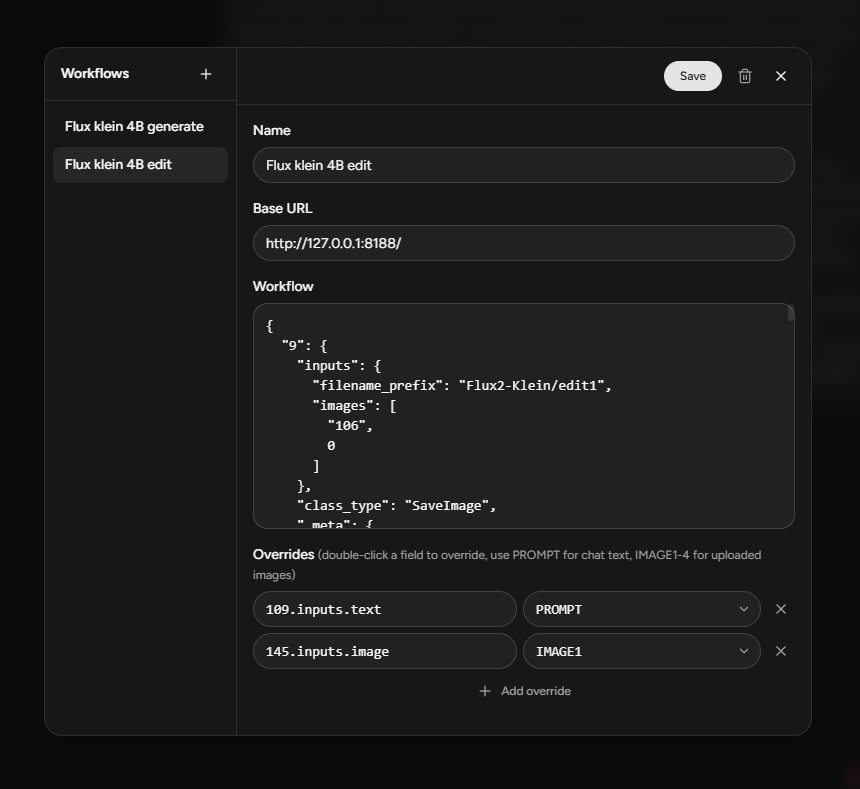
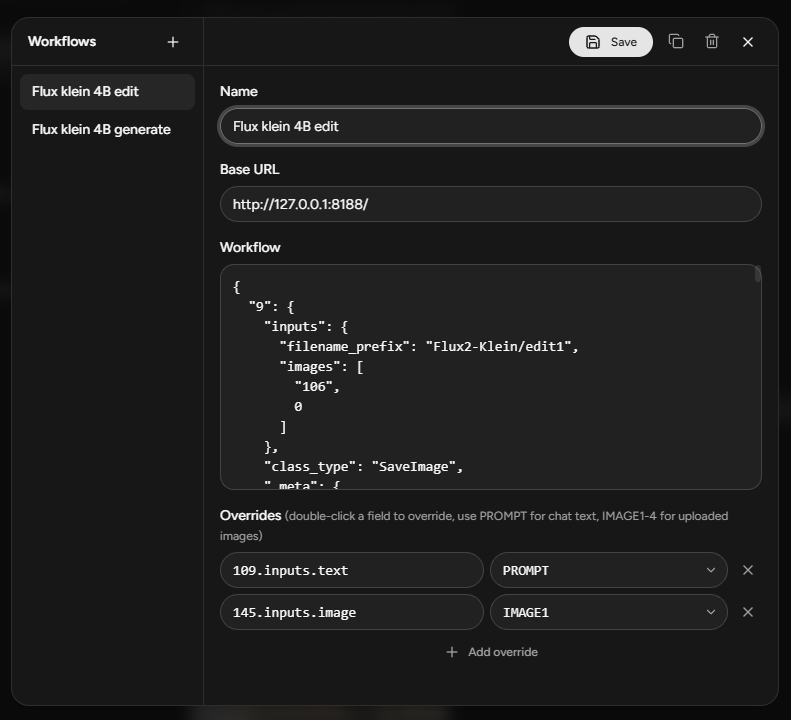
fix workflow settings modal

diff --git a/src/lib/components/Settings.svelte b/src/lib/components/Settings.svelte
@@ -4,11 +4,12 @@
 	import { Textarea } from '$lib/components/ui/textarea';
 	import { ScrollArea } from '$lib/components/ui/scroll-area';
 	import { workflowStore } from '$lib/stores/workflow.store.svelte';
-	import { X, Plus, Trash2 } from 'lucide-svelte';
+	import { X, Plus, Trash2, Copy, Save } from 'lucide-svelte';
 	import type { WorkflowOverride } from '$lib/services/workflow.service';
 	import ConfirmDialog from '$lib/components/ConfirmDialog.svelte';
 	import DynamicWorkflowBuilder from '$lib/components/DynamicWorkflowBuilder.svelte';
 	import { toast } from 'svelte-sonner';
+	import { Tooltip, TooltipContent, TooltipTrigger } from '$lib/components/ui/tooltip';
 
 	let { open = $bindable(false) }: { open: boolean } = $props();
 
@@ -103,6 +104,22 @@
 		}
 	}
 
+	async function handleClone() {
+		const wf = workflowStore.activeWorkflow;
+		if (!wf) return;
+
+		const baseName = wf.name.replace(/\s+\(Clone \d+\)$/i, '') || 'Workflow';
+		const clonePattern = new RegExp(`^${baseName.replace(/[.*+?^${}()|[\]\\]/g, '\\$&')} \\(Clone (\\d+)\\)$`, 'i');
+		const nextNumber =
+			workflowStore.workflows.reduce((max, workflow) => {
+				const match = workflow.name.match(clonePattern);
+				return match ? Math.max(max, Number(match[1])) : max;
+			}, 0) + 1;
+
+		await workflowStore.cloneWorkflow(wf, `${baseName} (Clone ${nextNumber})`);
+		toast.success('Workflow cloned');
+	}
+
 	function handleDelete() {
 		showDeleteConfirm = true;
 	}
@@ -186,7 +203,7 @@
 			<!-- Sidebar: Workflow List -->
 			<div class="flex w-48 flex-col border-r border-border md:rounded-l-2xl">
 				<!-- Sidebar Header -->
-				<div class="flex items-center justify-between border-b border-border px-4 py-3">
+				<div class="flex h-12 shrink-0 items-center justify-between border-b border-border px-4 py-0">
 					<h3 class="text-sm font-semibold text-foreground">Workflows</h3>
 					<Button
 						variant="ghost"
@@ -228,7 +245,7 @@
 			<!-- Main Panel -->
 			<div class="flex flex-1 flex-col md:rounded-r-2xl">
 				<!-- Action Bar: always visible -->
-				<div class="flex items-center justify-end gap-2 border-b border-border px-4 py-3">
+				<div class="flex h-12 shrink-0 items-center justify-end gap-2 border-b border-border px-4 py-0">
 					{#if workflowStore.activeWorkflow}
 						<Button
 							variant="default"
@@ -237,20 +254,43 @@
 							onclick={handleSave}
 							tabindex={-1}
 						>
+							<Save class="mr-1.5 h-3.5 w-3.5" />
 							Save
 						</Button>
 					{/if}
+					{#if workflowStore.activeWorkflow}
+						<Tooltip>
+							<TooltipTrigger>
+								<Button
+									variant="ghost"
+									size="icon"
+									class="h-7 w-7 cursor-pointer text-muted-foreground"
+									onclick={handleClone}
+									aria-label="Duplicate workflow"
+									tabindex={-1}
+								>
+									<Copy class="h-4 w-4" />
+								</Button>
+							</TooltipTrigger>
+							<TooltipContent>Duplicate workflow</TooltipContent>
+						</Tooltip>
+					{/if}
 					{#if workflowStore.activeWorkflow && !isNewWorkflow}
-						<Button
-							variant="ghost"
-							size="icon"
-							class="h-7 w-7 cursor-pointer text-muted-foreground hover:text-destructive"
-							onclick={handleDelete}
-							aria-label="Delete workflow"
-							tabindex={-1}
-						>
-							<Trash2 class="h-4 w-4" />
-						</Button>
+						<Tooltip>
+							<TooltipTrigger>
+								<Button
+									variant="ghost"
+									size="icon"
+									class="h-7 w-7 cursor-pointer text-muted-foreground hover:text-destructive"
+									onclick={handleDelete}
+									aria-label="Delete workflow"
+									tabindex={-1}
+								>
+									<Trash2 class="h-4 w-4" />
+								</Button>
+							</TooltipTrigger>
+							<TooltipContent>Delete workflow</TooltipContent>
+						</Tooltip>
 					{/if}
 					<Button
 						variant="ghost"

diff --git a/src/lib/stores/workflow.store.svelte.ts b/src/lib/stores/workflow.store.svelte.ts
@@ -29,6 +29,19 @@ function createWorkflowStore() {
 		workflows = workflows.map((w) => (w.id === updated.id ? updated : w));
 	}
 
+	async function cloneWorkflow(workflow: Workflow, name: string) {
+		const clone = {
+			...workflowService.createWorkflow(),
+			name,
+			base_url: workflow.base_url,
+			workflow: workflow.workflow,
+			overrides: workflow.overrides.map((override) => ({ ...override }))
+		};
+		await workflowService.saveWorkflow(clone);
+		workflows = [clone, ...workflows];
+		activeId = clone.id;
+	}
+
 	async function deleteWorkflow(id: string) {
 		await workflowService.deleteWorkflow(id);
 		workflows = workflows.filter((w) => w.id !== id);
@@ -45,6 +58,7 @@ function createWorkflowStore() {
 		selectWorkflow,
 		newWorkflow,
 		saveWorkflow,
+		cloneWorkflow,
 		deleteWorkflow
 	};
 }
